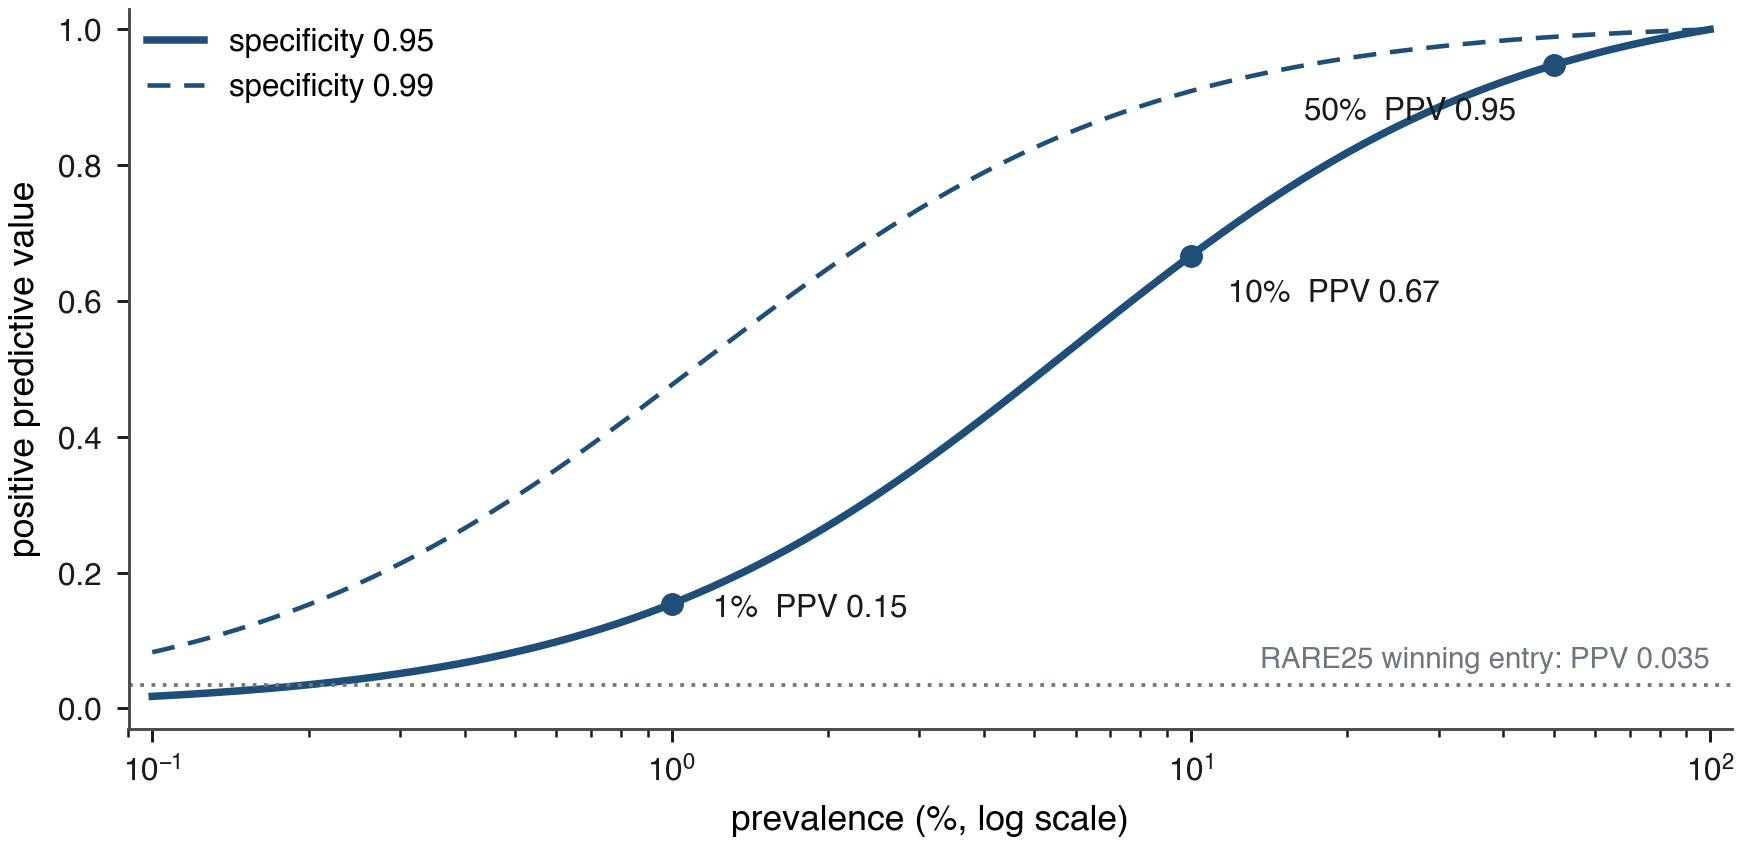
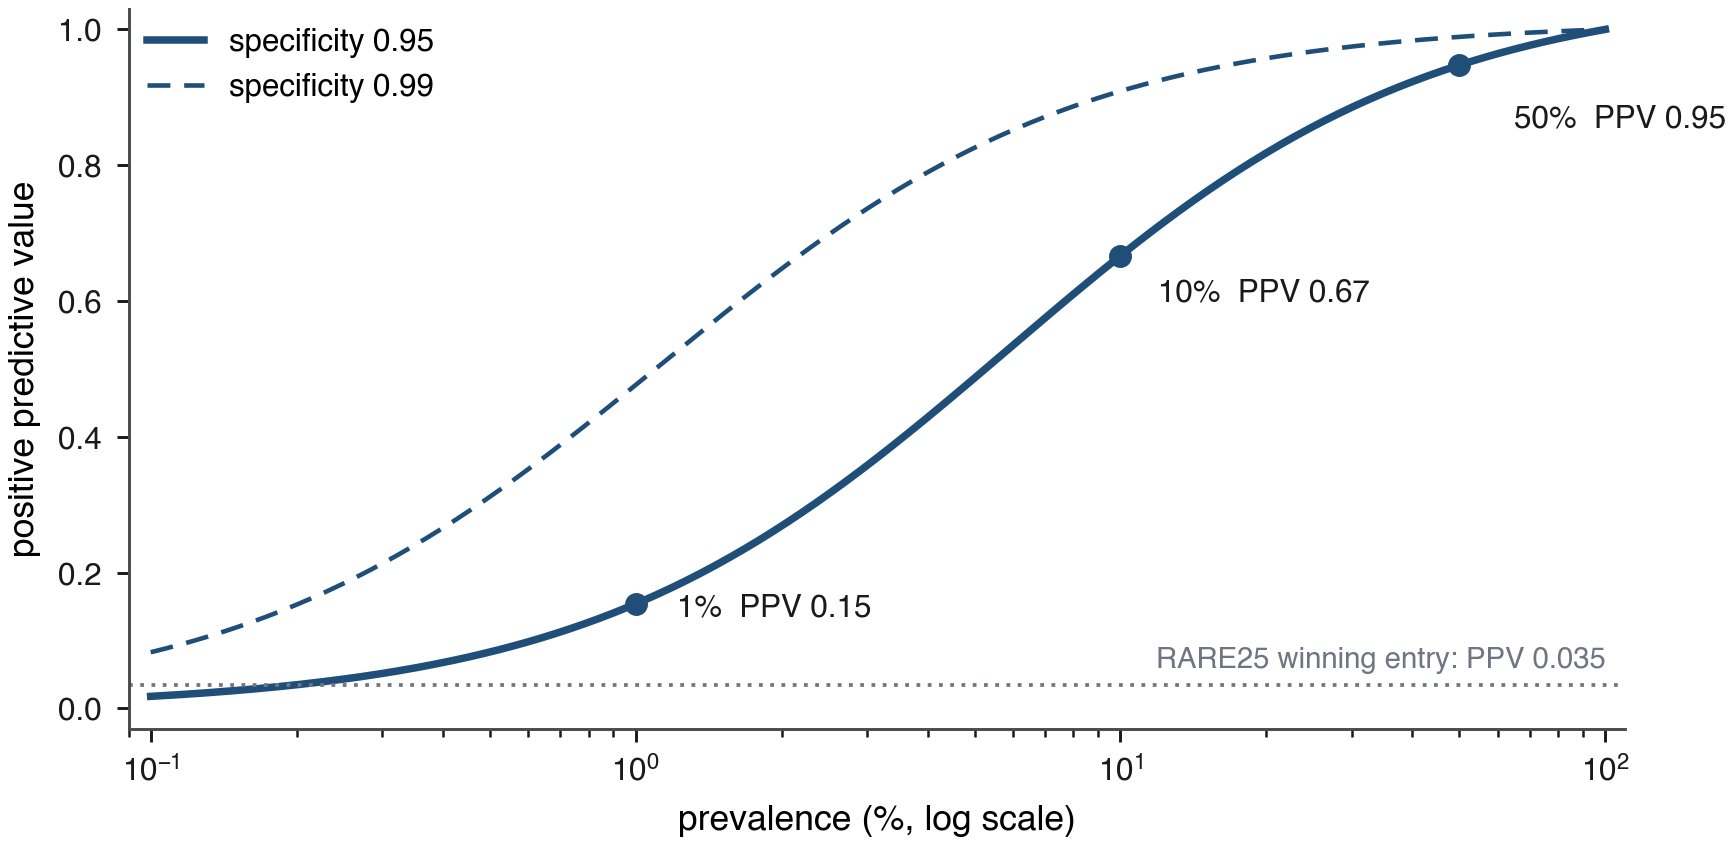
Fix two label overlaps in the figures
- probe: the '0.60 decision line' / 'chance' labels crossed the benign and
  malignant whiskers in panel (a); move them to panel (b)'s lower band, which
  is empty (every point there sits above 0.71), so no label touches a whisker.
- prevalence: the '50%' read-point label was clipped by the rising curve;
  reposition it below-and-right, into the clear region the curve rises away from.

diff --git a/tutorial/make_figures.py b/tutorial/make_figures.py
@@ -80,7 +80,9 @@ def fig_prevalence():
             color=DATA, lw=1.1, dashes=(5, 3), label="specificity 0.99")
 
     # three read-points on the 0.95 curve; plain labels, no bold, no arrows
-    reads = {0.01: (10, -3, "left"), 0.10: (9, -11, "left"), 0.50: (-9, -13, "right")}
+    # 50% sits high-right; label it below-and-right where the curve only rises
+    # away — below-left would let the descending curve clip the text.
+    reads = {0.01: (10, -3, "left"), 0.10: (9, -11, "left"), 0.50: (13, -15, "left")}
     for p, (dx, dy, ha) in reads.items():
         v = ppv(0.90, 0.95, p)
         ax.plot(p * 100, v, "o", color=DATA, ms=4.5, zorder=4)
@@ -144,10 +146,13 @@ def fig_probe():
         ax.set_title(descr, loc="left", x=0.08, pad=6, color=INK, fontsize=8)
         _spare(ax)
     axes[0].set_ylabel("probe AUROC (95% CI)")
-    # name the two reference lines once, on the left panel, small and quiet
-    axes[0].annotate("0.60 decision line", (2.68, 0.615), ha="right",
+    # Name the two shared reference lines once. Panel (b)'s lower band is empty
+    # (every point there sits above 0.71), so long labels can go there without
+    # crossing any error bar — in panel (a) they would run through the benign /
+    # malignant whiskers, which both reach ~0.62.
+    axes[1].annotate("0.60 decision line", (-0.45, 0.618), ha="left",
                      fontsize=6.8, color=RULE)
-    axes[0].annotate("chance", (2.68, 0.505), ha="right",
+    axes[1].annotate("chance", (-0.45, 0.515), ha="left",
                      fontsize=6.8, color="#9a9a9a")
     fig.tight_layout()
     fig.savefig(os.path.join(OUT, "probe.png"))